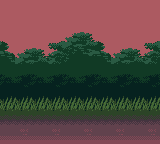
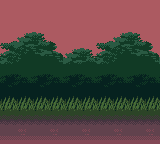
update out.png and src/index.ts

diff --git a/src/index.ts b/src/index.ts
@@ -21,7 +21,7 @@ function splitArray<T>(array: T[], chunkSize: number): T[][] {
 
 gameboy.loadRom(rom)
 
-for (let i=0; i < 2000; i++) {
+for (let i=0; i < 1800; i++) {
 	gameboy.doFrame()
 }
 //gameboy.pressKey(Gameboy.KEYMAP.START)
